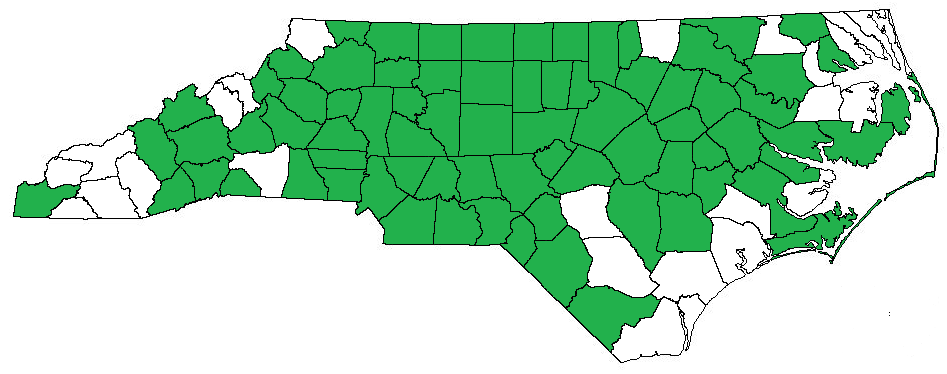
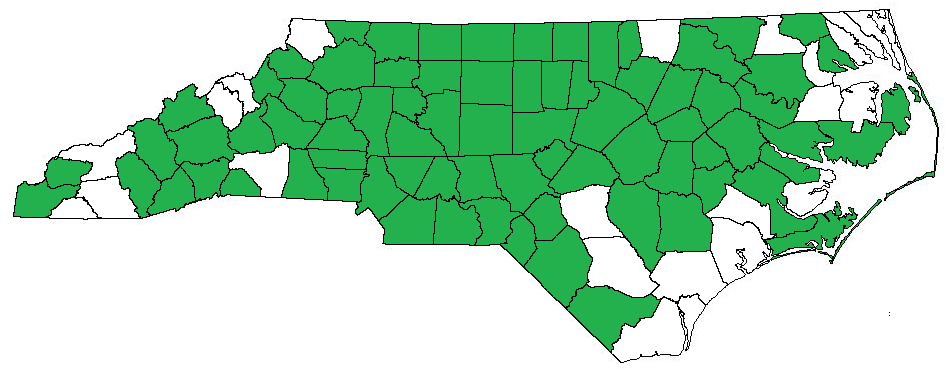
hiking and bbq 5/2 and 5/3/23

Changed region(s): [[0.1225, 0.4118, 0.1837, 0.5882], [0.0306, 0.4118, 0.0919, 0.5]]

diff --git a/hiking/index.html b/hiking/index.html
@@ -54,6 +54,7 @@
 	<li><a href="pisgah/black-balsam-knob/black-balsam-knob.html">Black Balsam Knob</a> (MM 420.2) [<i>also listed in the Pisgah section</i>]</li>
 	<li><a href="pisgah/sam-knob/sam-knob.html">Sam Knob Trail</a> (MM 420.2) [<i>also listed in the Pisgah section</i>]</li>
 	<li><a href="pisgah/devils-courthouse/devils-courthouse.html">The Devil's Courthouse</a> (MM 422.2) [<i>also listed in the Pisgah section</i>]</li>
+	<li><a href="blue-ridge-parkway/waterrock-knob/waterrock-knob.html">Waterrock Knob</a> (MM 451.2)</li>
 	<li><a href="blue-ridge-parkway/bunches-bald/bunches-bald.html">Bunches Bald Overlook</a> (MM 459.5)</li>
 	<li><a href="blue-ridge-parkway/big-witch/big-witch.html">Big Witch Overlook</a> (MM 461.9)</li>
 </ul>
@@ -129,9 +130,9 @@
 
 <h2>Grayson Highlands State Park (Virginia)</h2>
 <ul>
-	<li><a href="grayson-highlands\cabin-creek-trail\cabin-creek-trail.html">Cabin Creek Trail</a></li>
-	<li><a href="grayson-highlands\massie-gap-trail\massie-gap-trail.html">Massie Gap Trail</a> (towards Mt. Rogers)</li>
-	<li><a href="grayson-highlands\twin-pinnacles-trail\twin-pinnacles-trail.html">Twin Pinnacles Trail</a></li>
+	<li><a href="grayson-highlands/cabin-creek-trail/cabin-creek-trail.html">Cabin Creek Trail</a></li>
+	<li><a href="grayson-highlands/massie-gap-trail/massie-gap-trail.html">Massie Gap Trail</a> (towards Mt. Rogers)</li>
+	<li><a href="grayson-highlands/twin-pinnacles-trail/twin-pinnacles-trail.html">Twin Pinnacles Trail</a></li>
 </ul>
 
 <h2>Great Dismal Swamp</h2>
@@ -143,10 +144,11 @@
 <h2>Great Smoky Mountains National Park</h2>
 <ul>
 	<li><a href="great-smoky-mountains/ben-morton/ben-morton.html">Ben Morton Overlook</a></li>
-	<li><a href="great-smoky-mountains\deep-gap-loop\deep-gap-loop.html">Deep Gap Loop Trail</a></li>
+	<li><a href="great-smoky-mountains/deep-gap-loop/deep-gap-loop.html">Deep Gap Loop Trail</a></li>
 	<li><a href="great-smoky-mountains/pretty-hollow-gap/pretty-hollow-gap.html">Pretty Hollow Gap Trail and Beech Grove School</a></li>
 	<li><a href="great-smoky-mountains/purchase-knob/purchase-knob.html">Purchase Knob Trail</a></li>
 	<li><a href="great-smoky-mountains/rough-fork/rough-fork.html">Rough Fork Trail, Caldwell Place, Woody Place, and Palmer Chapel</a></li>
+	<li><a href="great-smoky-mountains/shuckstack-fire-tower/shuckstack-fire-tower.html">Shuckstack Fire Tower</a></li>
 	<li><a href="great-smoky-mountains/thunderhead/thunderhead.html">Thunderhead Mountain (partial)</a></li>
 	<li><a href="great-smoky-mountains/tunnel-to-nowhere/tunnel-to-nowhere.html">Tunnel To Nowhere</a> (via Goldmine Trail)</li>
 </ul>
@@ -172,8 +174,8 @@
 
 <h2>Medoc Mountain State Park</h2>
 <ul>
-	<li><a href="medoc-mountain\bluff-loop\bluff-loop.html">Bluff Loop Trail</a></li>
-	<li><a href="medoc-mountain\summit-loop\summit-loop.html">Summit Loop Trail</a></li>
+	<li><a href="medoc-mountain/bluff-loop/bluff-loop.html">Bluff Loop Trail</a></li>
+	<li><a href="medoc-mountain/summit-loop/summit-loop.html">Summit Loop Trail</a></li>
 </ul>
 
 <h2>Merchants Millpond State Park</h2>
@@ -183,27 +185,27 @@
 
 <h2>Morrow Mountain State Park</h2>
 <ul>
-	<li><a href="morrow-mountain\short-loop\short-loop.html">Short Loop</a> (Mountain Loop Trail)</li>
+	<li><a href="morrow-mountain/short-loop/short-loop.html">Short Loop</a> (Mountain Loop Trail)</li>
 </ul>
 
 <h2>Nantahalah National Forest</h2>
 <ul>
-	<li><a href="nantahalah\pinnacle-park\pinnacle-park.html">Pinnacle Park Trail</a> (Blackrock Mountain Trail)</li>
-	<li><a href="nantahalah\whitewater-falls\whitewater-falls.html">Whitewater Falls</a></li>
+	<li><a href="nantahalah/pinnacle-park/pinnacle-park.html">Pinnacle Park Trail</a> (Blackrock Mountain Trail)</li>
+	<li><a href="nantahalah/whitewater-falls/whitewater-falls.html">Whitewater Falls</a></li>
 	<li>Panthertown Valley -- see Panthertown Valley Backcountry Area below</li>
 </ul>
 
 <h2>Outer Banks</h2>
 <ul>
-	<li><a href="obx\bodie-island-lighthouse\bodie-island-lighthouse.html">Bodie Island Lighthouse</a></li>
-	<li><a href="obx\fort-fisher\fort-fisher.html">Fort Fisher State Recreation Area</a></li>
-	<li><a href="obx\jockeys-ridge\jockeys-ridge.html">Jockeys Ridge State Park</a></li>
-	<li><a href="obx\wright-brothers\wright-brothers.html">Wright Brothers Monument</a></li>
+	<li><a href="obx/bodie-island-lighthouse/bodie-island-lighthouse.html">Bodie Island Lighthouse</a></li>
+	<li><a href="obx/fort-fisher/fort-fisher.html">Fort Fisher State Recreation Area</a></li>
+	<li><a href="obx/jockeys-ridge/jockeys-ridge.html">Jockeys Ridge State Park</a></li>
+	<li><a href="obx/wright-brothers/wright-brothers.html">Wright Brothers Monument</a></li>
 </ul>
 
 <h2>Panthertown Valley Backcountry Area (part of Nantahalah National Forest)</h2>
 <ul>
-	<li><a href="panthertown\east-panthertown-waterfalls\east-panthertown-waterfalls.html">East Panthertown Waterfalls Hike</a></li>
+	<li><a href="panthertown/east-panthertown-waterfalls/east-panthertown-waterfalls.html">East Panthertown Waterfalls Hike</a></li>
 </ul>
 
 <h2>Pettigrew State Park</h2>
@@ -242,7 +244,7 @@
 
 <h2>Pond Mountain Game Lands</h2>
 <ul>
-	<li><a href="pond-mountain\tri-point\tri-point.html">Tri-Point Hike</a> (NC, TN, VA border)</li>
+	<li><a href="pond-mountain/tri-point/tri-point.html">Tri-Point Hike</a> (NC, TN, VA border)</li>
 </ul>
 
 <h2>Shining Rock Wilderness Area</h2>
@@ -258,15 +260,15 @@
 
 <h2>Sumter National Forest</h2>
 <ul>
-	<li><a href="sumter\big-bend-falls\big-bend-falls.html">Big Bend Falls Trail</a></li>
-	<li><a href="sumter\chattooga-trail\chattooga-trail.html">Chattooga River Trail</a></li>
-	<li><a href="sumter\kings-creek-falls\kings-creek-falls.html">Kings Creek Falls</a></li>
-	<li><a href="sumter\moody-springs\moody-springs.html">Moody Springs and March 10, 1943 marker</a></li>
+	<li><a href="sumter/big-bend-falls/big-bend-falls.html">Big Bend Falls Trail</a></li>
+	<li><a href="sumter/chattooga-trail/chattooga-trail.html">Chattooga River Trail</a></li>
+	<li><a href="sumter/kings-creek-falls/kings-creek-falls.html">Kings Creek Falls</a></li>
+	<li><a href="sumter/moody-springs/moody-springs.html">Moody Springs and March 10, 1943 marker</a></li>
 </ul>
 
 <h2>Three Top Mountain Game Lands</h2>
 <ul>
-	<li><a href="three-top\three-top\three-top.html">Three Top Mountain Summit Hike</a></li>
+	<li><a href="three-top/three-top/three-top.html">Three Top Mountain Summit Hike</a></li>
 </ul>
 
 <h2>Uwharrie National Forest</h2>

diff --git a/hiking/great-smoky-mountains/shuckstack-fire-tower/shuckstack-fire-tower.html b/hiking/great-smoky-mountains/shuckstack-fire-tower/shuckstack-fire-tower.html
@@ -1,0 +1,46 @@
+<!DOCTYPE html>
+<html>
+
+
+<head>
+	<link href="../../style.css" rel="stylesheet" type="text/css" />
+	<link rel="icon" type="image/png" href="../../icon.png">
+	<title>Shuckstack Fire Tower - Great Smoky Mountains</title>
+</head>
+
+<center>
+	<h2>Shuckstack Fire Tower - Great Smoky Mountains</h2>
+</center>
+
+<p>I completed this hike on 5/3/2023 with my brother and my mom.</p>
+
+<p>Shuckstack Fire Tower is located deep in the heart of the Great Smoky Mountains, with the shortest route in being a 7-mile sojourn down the Appalachian Trail, featuring a wicked 2,000+ feet of elevation gain, not including the ascent of the tower.  The hike starts steep, and stays that way for a rather long time.  Most of the first two miles are at a serious grade, with a few switchbacks thrown in out of necessity.  As you hike, you may get occaisional glimpses of Fontana Lake, which the parking for this hike is located just off of.</p>
+
+<center><image src="https://s3.us-east-1.wasabisys.com/cwclaib-website/NC-State-Page/hiking/great-smoky-mountains/shuckstack-fire-tower/20230503_173912.jpg" width="800"></img></center><br>
+<center><image src="https://s3.us-east-1.wasabisys.com/cwclaib-website/NC-State-Page/hiking/great-smoky-mountains/shuckstack-fire-tower/20230503_141320.jpg" width="800"></img></center><br>
+<center><image src="https://s3.us-east-1.wasabisys.com/cwclaib-website/NC-State-Page/hiking/great-smoky-mountains/shuckstack-fire-tower/20230503_141344.jpg" width="800"></img></center><br>
+<center><image src="https://s3.us-east-1.wasabisys.com/cwclaib-website/NC-State-Page/hiking/great-smoky-mountains/shuckstack-fire-tower/20230503_143323.jpg" width="800"></img></center><br>
+<center><image src="https://s3.us-east-1.wasabisys.com/cwclaib-website/NC-State-Page/hiking/great-smoky-mountains/shuckstack-fire-tower/20230503_144734.jpg" width="800"></img></center>
+
+<p>After about 3 miles of hiking, you'll be rewarded to your first clear view of the near-pristine forestland through which you're hiking with an ocher-speckled outcropping.  After one final (steep!) hurrah, you'll reach the point where the trail to the fire tower branches off.  After less than a quarter mile of hiking, you'll come upon the base of the fire tower; this area also features the remnants of the cabin the watchmen stayed in while this tower was actively used.</p>
+
+
+<center><image src="https://s3.us-east-1.wasabisys.com/cwclaib-website/NC-State-Page/hiking/great-smoky-mountains/shuckstack-fire-tower/20230503_145359.jpg" width="800"></img></center><br>
+<center><image src="https://s3.us-east-1.wasabisys.com/cwclaib-website/NC-State-Page/hiking/great-smoky-mountains/shuckstack-fire-tower/20230503_145314.jpg" width="800"></img></center><br>
+<center><image src="https://s3.us-east-1.wasabisys.com/cwclaib-website/NC-State-Page/hiking/great-smoky-mountains/shuckstack-fire-tower/20230503_151309.jpg" width="800"></img></center><br>
+<center><image src="https://s3.us-east-1.wasabisys.com/cwclaib-website/NC-State-Page/hiking/great-smoky-mountains/shuckstack-fire-tower/20230503_151732.jpg" width="800"></img></center><br>
+<center><image src="https://s3.us-east-1.wasabisys.com/cwclaib-website/NC-State-Page/hiking/great-smoky-mountains/shuckstack-fire-tower/20230503_152444.jpg" width="800"></img></center><br>
+<center><image src="https://s3.us-east-1.wasabisys.com/cwclaib-website/NC-State-Page/hiking/great-smoky-mountains/shuckstack-fire-tower/20230503_152454.jpg" width="800"></img></center>
+
+<p>Though the tower is a bit old and worn down, it's pretty solidly constructed, and other than some bendy boards at the top, it's totally safe to climb up as of the time of this writing.  From the top, you can get some awe-inspiring views of Fontana Lake, the Smoky Mountains, and other natural wonders from a nearly one-of-a-kind vantage point.</p>
+
+<center><image src="https://s3.us-east-1.wasabisys.com/cwclaib-website/NC-State-Page/hiking/great-smoky-mountains/shuckstack-fire-tower/20230503_153509.jpg" width="800"></img></center><br>
+<center><image src="https://s3.us-east-1.wasabisys.com/cwclaib-website/NC-State-Page/hiking/great-smoky-mountains/shuckstack-fire-tower/20230503_153515.jpg" width="800"></img></center><br>
+<center><image src="https://s3.us-east-1.wasabisys.com/cwclaib-website/NC-State-Page/hiking/great-smoky-mountains/shuckstack-fire-tower/20230503_153616.jpg" width="800"></img></center><br>
+<center><iframe width="800" height="800"
+	src="https://www.youtube.com/embed/MqpkDaljv-w">
+</iframe></center>
+
+
+<p>To see a map of the trail, click <a href="https://www.alltrails.com/trail/us/north-carolina/shuckstack-tower-via-appalachian-trail">here</a>.</p>
+

diff --git a/bbq/index.html b/bbq/index.html
@@ -58,10 +58,10 @@
 <br>
 <center>
 	<h2>Current County Counter</h2>
-	<h3><span style="color:red">75</span> / 100</h3>
-	<h3>101 different in-state BBQ joints</h3>
+	<h3><span style="color:red">77</span> / 100</h3>
+	<h3>103 different in-state BBQ joints</h3>
 	<h3>8 annual BBQ events</h3>
-	<p>(last updated 4/30/2023)</p>
+	<p>(last updated 5/3/2023)</p>
 </center>
 <br>
 
@@ -226,6 +226,11 @@
 	<li>Corapeake Country Restaurant - Corapeake - 1/28/2023 - <a href="bbq-pics.html#Corapeake">pictures</a></li>
 </ul>
 <br>
+<p><b>Graham County</b></p>
+<ul>
+	<li>Lynn's Place - Robbinsville - 5/3/2023 - <a href="bbq-pics.html#lynns">pictures</a></li>
+</ul>
+<br>
 <p><b>Granville County</b></p>
 <ul>
 	<li>Wilton Grill - Wilton - 8/9/2022 - <a href="bbq-pics.html#Wilton">pictures</a></li>
@@ -276,6 +281,11 @@
 <p><b>Iredell County</b></p>
 <ul>
 	<li>Lancaster's Bar-B-Que - Mooresville - 6/26/2022 - <a href="bbq-pics.html#Lancaster">pictures</a></li>
+</ul>
+<br>
+<p><b>Jackson County</b></p>
+<ul>
+	<li>Big Nick's BBQ - Sylva - 5/2/2023 - <a href="bbq-pics.html#nicks">pictures</a></li>
 </ul>
 <br>
 <p><b>Johnston County</b></p>
@@ -622,6 +632,8 @@
 <p>My next couple barbeque spots were fairly quick ones.  On a skiing trip with my girlfriend and her sister, I hit Mars Hill's Stackhouse Restaurant for a post-ski snack, and then went down the road to the Mars Theatre Brewing Company, where we enjoyed some of their local brews.  On the way home, we stopped at Saluda's Green River Barbeque, which, in addition to some stellar cue, had among the best potato salad I've had in quite a while.  A couple of weeks later, we visited Stratford Bar-B-Q #2, a classic hickory-smoked join in northern NC, on my way to see Billy Strings in Winston-Salem.</p>
 
 <p>My next barbeque excursion was again encouraged by music: at the end of April, I took a half week off work and traveled west towards Wilkesboro, NC for Merlefest.  I used the trip as an excuse to swing north and hit Person and Caswell County, two areas I hadn't done many trips to without many 'cue restaurants.  Because the two counties were so close together, my girlfriend and I decided we would split a plate at each stop.  Disaster nearly struck early on in the trip when one of two pork-pickin' restaurants in Person County, Smokey Dave's BBQ, closed just **two days** prior to my trip.  Luckily, I had the foresight to check beforehand, and we were able to pivot to Rox City Grill in Roxboro.  Despite the joint not prominently featuring 'cue on the menu, their meat was nice and moist, and had almost a fried chicken-sort of skin on the meat.  They also offered a variety of sauces; I chose to get the classic vinegar sauce, though they had a more Virginian-style sauce as well.  After a stop at the <a href="other-pics.html#shangrila">Sangri-La Rock Village</a>, we visited Yanceyville's Briggs' Bar-B-Que, which had more tasty and moist meat, as well as some phenomenal collards.  After <a href="other-pics.html#merlefest">Merlefest</a>, we drove to Waynesville for a few days of hiking while my brother was back in town; on the way in, we hit Phil's Bar-B-Q in Black Mountain, which had a cool atmosphere and some very unique offerings, like BBQ Quesadillas and BBQ Nachos.</p>
+
+<p>While spending a week in Waynesville hiking, I cajoled my family into enjoying a few more barbeque places.  A sunset hike to <a href="../hiking/blue-ridge-parkway/waterrock-knob/waterrock-knob.html">Waterrock Knob</a> was preceded by a scrumptions stop at Big Nick's BBQ in Sylva, which offered excellent pulled pork and brisket; their sauce was thick, like a Memphis-style sauce, but it sure was tasty.  The following day, we spent most of the day hiking <a href="../hiking/great-smoky-mountains/shuckstack-fire-tower/shuckstack-fire-tower.html">Shuckstack Fire Tower</a> before attempting to get some pork in Graham County. I was initially foiled when the waitress at Tapoco Tavern, our ritzy reward for our arduous day of hiking, informed me they had taken barbeque off their menu about a year ago; undeterred, we pivoted (once again) to Lynn's Place, the only remaining pork-serving establishment I'm aware of in the county at this time.  Their barbeque sandwhich, the sole porcine offering, was still tasty, but their other foods, such as trout and shrimp scampi, were definitely their breadwinners.</p>
 
 <center>- - - - - - - - - - -</center>
 

diff --git a/hiking/blue-ridge-parkway/waterrock-knob/waterrock-knob.html b/hiking/blue-ridge-parkway/waterrock-knob/waterrock-knob.html
@@ -1,0 +1,39 @@
+<!DOCTYPE html>
+<html>
+
+
+<head>
+	<link href="../../style.css" rel="stylesheet" type="text/css" />
+	<link rel="icon" type="image/png" href="../../icon.png">
+	<title>Waterrock Knob - Blue Ridge Parkway</title>
+</head>
+
+<center>
+	<h2>Waterrock Knob - Blue Ridge Parkway</h2>
+</center>
+
+<p>I hiked this trail on May 2nd, 2023 with my brother and mom.  We hiked it late on a weekday as a short, post-work sunset hike.</p>
+
+<p>Just under one mile round-trip, most of the beginning section of this trail is fully paved.  After reaching a rock vista, the pavement ends, leaving a well-worn dirt path which overlaps with the Mountains-to-Sea Trail.</p>
+
+<center><image src="https://s3.us-east-1.wasabisys.com/cwclaib-website/NC-State-Page/hiking/blue-ridge-parkway/waterrock-knob/20230502_190707.jpg" width="800"></img></center><br>
+<center><image src="https://s3.us-east-1.wasabisys.com/cwclaib-website/NC-State-Page/hiking/blue-ridge-parkway/waterrock-knob/20230502_190720.jpg" width="800"></img></center><br>
+<center><image src="https://s3.us-east-1.wasabisys.com/cwclaib-website/NC-State-Page/hiking/blue-ridge-parkway/waterrock-knob/20230502_191813.jpg" width="800"></img></center>
+
+<p>After a bit more hiking, you'll reach the top of the knob, which offers great vistas towards the south and east.</p>
+
+<center><image src="https://s3.us-east-1.wasabisys.com/cwclaib-website/NC-State-Page/hiking/blue-ridge-parkway/waterrock-knob/20230502_192953.jpg" width="800"></img></center><br>
+<center><image src="https://s3.us-east-1.wasabisys.com/cwclaib-website/NC-State-Page/hiking/blue-ridge-parkway/waterrock-knob/20230502_193021.jpg" width="800"></img></center><br>
+<center><image src="https://s3.us-east-1.wasabisys.com/cwclaib-website/NC-State-Page/hiking/blue-ridge-parkway/waterrock-knob/20230502_193120.jpg" width="800"></img></center>
+
+<p>Since we were hoping for a dramatic sunset spot, we backtracked slightly to a spot on the MST we had checked out earlier: a bench called Piet's Place, named in honor of trailbuilder Piet Bodenhorst.  We stayed there for the next 30-45 minutes, soaking in the sun's dying rays.</p>
+
+<center><image src="https://s3.us-east-1.wasabisys.com/cwclaib-website/NC-State-Page/hiking/blue-ridge-parkway/waterrock-knob/20230502_194759.jpg" width="800"></img></center><br>
+<center><image src="https://s3.us-east-1.wasabisys.com/cwclaib-website/NC-State-Page/hiking/blue-ridge-parkway/waterrock-knob/20230502_195342.jpg" width="800"></img></center>
+
+<center><iframe width="800" height="800"
+	src="https://www.youtube.com/embed/0VAAJ7qr46g">
+</iframe></center>
+<center><image src="https://s3.us-east-1.wasabisys.com/cwclaib-website/NC-State-Page/hiking/blue-ridge-parkway/waterrock-knob/20230502_202523.jpg" width="800"></img></center>
+
+<p>See a map of the trail <a href="https://www.alltrails.com/trail/us/north-carolina/waterrock-knob-trail">here</a>.</p>

diff --git a/bbq/bbq-pics.html b/bbq/bbq-pics.html
@@ -714,6 +714,26 @@
 </button></center>
 
 <br>
+<p><b>Graham County</b></p>
+<p>Lynn's Place - Robbinsville</p>
+<p><a id="lynns"></p>
+<center><img id="image241" img-src="https://s3.us-east-1.wasabisys.com/cwclaib-website/NC-State-Page/bbq/Lynn's Place, Robbinsville/20230503_184430.jpg" width="800"></img></center>
+<center><button type="button"
+        onclick="show( image241, this )" id="btnID">
+        Show Image
+</button></center>
+<center><img id="image242" img-src="https://s3.us-east-1.wasabisys.com/cwclaib-website/NC-State-Page/bbq/Lynn's Place, Robbinsville/20230503_185841.jpg" width="800"></img></center>
+<center><button type="button"
+        onclick="show( image242, this )" id="btnID">
+        Show Image
+</button></center>
+<center><img id="image243" img-src="https://s3.us-east-1.wasabisys.com/cwclaib-website/NC-State-Page/bbq/Lynn's Place, Robbinsville/20230503_190756.jpg" width="800"></img></center>
+<center><button type="button"
+        onclick="show( image243, this )" id="btnID">
+        Show Image
+</button></center>
+
+<br>
 <p><b>Granville County</b></p>
 <p>Wilton Grill - Wilton</p>
 <p><a id="Wilton"></p>
@@ -887,6 +907,31 @@
 <center><img id="image125" img-src="https://s3.us-east-1.wasabisys.com/cwclaib-website/NC-State-Page/bbq/Lancasters Bar-B-Que, Mooresville/20220626_180224.jpg" width="800"></img></center>
 <center><button type="button"
         onclick="show( image125, this )" id="btnID">
+        Show Image
+</button></center>
+
+<br>
+<p><b>Jackson County</b></p>
+<p>Big Nick's BBQ - Sylva</p>
+<p><a id="nicks"></p>
+<center><img id="image237" img-src="https://s3.us-east-1.wasabisys.com/cwclaib-website/NC-State-Page/bbq/Big Nick's BBQ, Sylva/20230502_180507.jpg" width="800"></img></center>
+<center><button type="button"
+        onclick="show( image237, this )" id="btnID">
+        Show Image
+</button></center>
+<center><img id="image238" img-src="https://s3.us-east-1.wasabisys.com/cwclaib-website/NC-State-Page/bbq/Big Nick's BBQ, Sylva/20230502_180939.jpg" width="800"></img></center>
+<center><button type="button"
+        onclick="show( image238, this )" id="btnID">
+        Show Image
+</button></center>
+<center><img id="image239" img-src="https://s3.us-east-1.wasabisys.com/cwclaib-website/NC-State-Page/bbq/Big Nick's BBQ, Sylva/20230502_181330.jpg" width="800"></img></center>
+<center><button type="button"
+        onclick="show( image239, this )" id="btnID">
+        Show Image
+</button></center>
+<center><img id="image240" img-src="https://s3.us-east-1.wasabisys.com/cwclaib-website/NC-State-Page/bbq/Big Nick's BBQ, Sylva/20230502_182920.jpg" width="800"></img></center>
+<center><button type="button"
+        onclick="show( image240, this )" id="btnID">
         Show Image
 </button></center>
 

diff --git a/hiking/great-smoky-mountains/thunderhead/thunderhead.html b/hiking/great-smoky-mountains/thunderhead/thunderhead.html
@@ -5,11 +5,11 @@
 <head>
 	<link href="../../style.css" rel="stylesheet" type="text/css" />
 	<link rel="icon" type="image/png" href="../../icon.png">
-	<title>Thunderhead Mountain - Pisgah National Forest</title>
+	<title>Thunderhead Mountain - Great Smoky Mountains</title>
 </head>
 
 <center>
-	<h2>Thunderhead Mountain - Pisgah National Forest</h2>
+	<h2>Thunderhead Mountain - Great Smoky Mountains</h2>
 </center>
 
 <p>Unfortunately, this hike is served as an example of why planning is important.  I had assumed you did not need a camping permit to stay overnight on sections of the Appalachian Trail in the Smokies; this was not the case.  In addition to the $4 backcountry camping permit, I also did not have a bear-proof container, as required by park ordinances.  Finally, the area I had planned on parking did not allow overnight parking, and had a gate that locked overnight.  Finally, thanks to some procrastination from my brother, we didn't start the hike until 3 PM -- WAY too late to finish the original 8.5 mile hike.</p>

diff --git a/hiking/great-smoky-mountains/rough-fork/rough-fork.html b/hiking/great-smoky-mountains/rough-fork/rough-fork.html
@@ -5,11 +5,11 @@
 <head>
 	<link href="../../style.css" rel="stylesheet" type="text/css" />
 	<link rel="icon" type="image/png" href="../../icon.png">
-	<title>Rough Fork Trail - Pisgah National Forest</title>
+	<title>Rough Fork Trail - Great Smoky Mountains</title>
 </head>
 
 <center>
-	<h2>Rough Fork Trail - Pisgah National Forest</h2>
+	<h2>Rough Fork Trail - Great Smoky Mountains</h2>
 </center>
 
 <p>I did this hike in the Smoky Mountains' Cataloochee Valley area on August 20th, 2022 with my parents and my girlfriend, following a quick hike down <a href="../pretty-hollow-gap/pretty-hollow-gap.html">Pretty Hollow Gap Trail</a>.</p>

diff --git a/hiking/great-smoky-mountains/pretty-hollow-gap/pretty-hollow-gap.html b/hiking/great-smoky-mountains/pretty-hollow-gap/pretty-hollow-gap.html
@@ -5,11 +5,11 @@
 <head>
 	<link href="../../style.css" rel="stylesheet" type="text/css" />
 	<link rel="icon" type="image/png" href="../../icon.png">
-	<title>Pretty Hollow Gap Trail - Pisgah National Forest</title>
+	<title>Pretty Hollow Gap Trail - Great Smoky Mountains</title>
 </head>
 
 <center>
-	<h2>Pretty Hollow Creek Trail - Pisgah National Forest</h2>
+	<h2>Pretty Hollow Creek Trail - Great Smoky Mountains</h2>
 </center>
 
 <p>I did this easy and scenic hike in the Smoky Mountains' Cataloochee Valley area on August 20th, 2022 with my parents and my girlfriend.</p>
